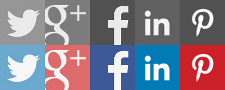
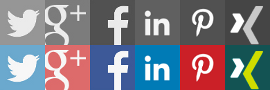
Xing integration

diff --git a/static/socialshare.css b/static/socialshare.css
@@ -2,7 +2,7 @@
 .social-sharing{width: 100%; clear: both;}
 .social-sharing span{display: inline-block;font-size: 110%;}
 .social-sharing span.top, .social-sharing span.bottom {width:100%;} .social-sharing span.right {display: inline;}  
-a.button-facebook,a.button-googleplus,a.button-twitter,a.button-linkedin,a.button-pinterest{color: #fff;text-decoration:none;font-size: 16px;font-weight:normal; margin:1% 1% 1% 0;padding:5px 1%;padding:.5rem 1%;text-align:center;display: inline-block;text-shadow: 0 1px 0 rgba(0, 0, 0, 0.25);border:0px;}
+a.button-facebook,a.button-googleplus,a.button-twitter,a.button-linkedin,a.button-pinterest,a.button-xing{color: #fff;text-decoration:none;font-size: 16px;font-weight:normal; margin:1% 1% 1% 0;padding:5px 1%;padding:.5rem 1%;text-align:center;display: inline-block;text-shadow: 0 1px 0 rgba(0, 0, 0, 0.25);border:0px;}
 a.button-facebook {background-color: #2b4170;background: -moz-linear-gradient(top, #3b5998, #2b4170);background: -ms-linear-gradient(top, #3b5998, #2b4170);background: -webkit-linear-gradient(top, #3b5998, #2b4170);text-shadow: 0 -1px -1px #1f2f52;}
 a.button-facebook:hover {background-color: #3b5998;background: -moz-linear-gradient(top, #2b4170, #3b5998);background: -ms-linear-gradient(top, #2b4170, #3b5998);background: -webkit-linear-gradient(top, #2b4170, #3b5998);color:#fff;}
 a.button-googleplus { background-color: #c33219;background: -moz-linear-gradient(top, #e64522, #c33219);background: -ms-linear-gradient(top, #e64522, #c33219);background: -webkit-linear-gradient(top, #e64522, #c33219);text-shadow: 0 -1px -1px #972412;}
@@ -13,22 +13,26 @@ a.button-linkedin {background-color: #0073b2;background: -moz-linear-gradient(to
 a.button-linkedin:hover{background-color: #009cda;background: -moz-linear-gradient(top, #0073b2, #009cda);background: -ms-linear-gradient(top, #0073b2, #009cda);background: -webkit-linear-gradient(top, #0073b2, #009cda);color:#fff;}
 a.button-pinterest {background-color: #a0171c;background: -moz-linear-gradient(top, #cb2027, #a0171c);background: -ms-linear-gradient(top, #cb2027, #a0171c);background: -webkit-linear-gradient(top, #cb2027, #a0171c);text-shadow: 0 -1px -1px #761114;}
 a.button-pinterest:hover{background-color: #cb2027; background: -moz-linear-gradient(top, #a0171c, #cb2027);background: -ms-linear-gradient(top, #a0171c, #cb2027);background: -webkit-linear-gradient(top, #a0171c, #cb2027);color:#fff;}
+a.button-xing {background-color: #006464;background: -moz-linear-gradient(top, #135353, #006464);background: -ms-linear-gradient(top, #135353, #006464);background: -webkit-linear-gradient(top, #135353, #006464);text-shadow: 0 -1px -1px #1e7677;}
+a.button-xing:hover{background-color: #135353; background: -moz-linear-gradient(top, #006464, #135353);background: -ms-linear-gradient(top, #006464, #135353);background: -webkit-linear-gradient(top, #006464, #135353);color:#fff;}
 
 .ss-social-sharing a{text-indent: -99999px;}
-a.ss-button-facebook, a.ss-button-googleplus, a.ss-button-twitter, a.ss-button-linkedin,a.ss-button-pinterest{background-image: url(socialshare.png);width: 45px;height: 45px;background-repeat: no-repeat;padding: 0px;border: 0px;margin:1% 1% 1% 0;display: inline-block;}
+a.ss-button-facebook, a.ss-button-googleplus, a.ss-button-twitter, a.ss-button-linkedin,a.ss-button-pinterest,a.ss-button-xing{background-image: url(socialshare.png);width: 45px;height: 45px;background-repeat: no-repeat;padding: 0px;border: 0px;margin:1% 1% 1% 0;display: inline-block;}
 a.ss-button-twitter{background-position:0px -45px;}a.ss-button-twitter:hover{background-position:0px 0px;transition-delay: 0s;transition-duration: 250ms;transition-property: all; transition-timing-function: ease-in-out;}
 a.ss-button-googleplus{background-position: -45px -45px;}a.ss-button-googleplus:hover{background-position: -45px 0px;transition-delay: 0s;transition-duration: 250ms;transition-property: all; transition-timing-function: ease-in-out;}
 a.ss-button-facebook{background-position: -90px -45px;}a.ss-button-facebook:hover{background-position: -90px 0px;transition-delay: 0s;transition-duration: 250ms;transition-property: all; transition-timing-function: ease-in-out;}
 a.ss-button-linkedin{background-position: -135px -45px;}a.ss-button-linkedin:hover{background-position: -135px 0px;transition-delay: 0s;transition-duration: 250ms;transition-property: all; transition-timing-function: ease-in-out;}
 a.ss-button-pinterest{background-position: -180px -45px;}a.ss-button-pinterest:hover{background-position: -180px 0px;transition-delay: 0s;transition-duration: 250ms;transition-property: all; transition-timing-function: ease-in-out;}
+a.ss-button-xing{background-position: -225px -45px;}a.ss-button-xing:hover{background-position: -225px 0px;transition-delay: 0s;transition-duration: 250ms;transition-property: all; transition-timing-function: ease-in-out;}
 
 /* Smartphones (portrait and landscape) */
 @media (max-width : 480px){
 .social-sharing a{text-indent: -99999px;}
-a.button-facebook, a.button-googleplus,a.button-twitter,a.button-linkedin,a.button-pinterest{background-image: url(socialshare.png) !important;width: 45px;height: 45px;background-repeat: no-repeat;padding: 0px;border: 0px;}
+a.button-facebook, a.button-googleplus,a.button-twitter,a.button-linkedin,a.button-pinterest,a.button-xing{background-image: url(socialshare.png) !important;width: 45px;height: 45px;background-repeat: no-repeat;padding: 0px;border: 0px;}
 a.button-twitter{background-position:0px -45px; }a.button-twitter:hover{background-position:0px 0px;transition-delay: 0s;transition-duration: 250ms;transition-property: all; transition-timing-function: ease-in-out;}
 a.button-googleplus{background-position: -45px -45px;}a.button-googleplus:hover{background-position: -45px 0px;transition-delay: 0s;transition-duration: 250ms;transition-property: all; transition-timing-function: ease-in-out;}
 a.button-facebook{background-position: -90px -45px;}a.button-facebook:hover{background-position: -90px 0px;transition-delay: 0s;transition-duration: 250ms;transition-property: all; transition-timing-function: ease-in-out;}
 a.button-linkedin{background-position: -135px -45px;}a.button-linkedin:hover{background-position: -135px 0px;transition-delay: 0s;transition-duration: 250ms;transition-property: all; transition-timing-function: ease-in-out;}
 a.button-pinterest{background-position: -180px -45px;}a.button-pinterest:hover{background-position: -180px 0px;transition-delay: 0s;transition-duration: 250ms;transition-property: all; transition-timing-function: ease-in-out;}
+a.button-xing{background-position: -225px -45px;}a.button-xing:hover{background-position: -225px 0px;transition-delay: 0s;transition-duration: 250ms;transition-property: all; transition-timing-function: ease-in-out;}
 }

diff --git a/static/admin-styles.css b/static/admin-styles.css
@@ -14,6 +14,7 @@
 .dndicon .facebook-icon{background-position: -90px -45px;}
 .dndicon .linkedin-icon{background-position: -135px -45px;}
 .dndicon .pinterest-icon{background-position: -180px -45px;}
+.dndicon .xing-icon{background-position: -225px -45px;}
 @media(max-width: 919px) {
 .ss-column{float: none;width: 100%;}
 .ss-secondary{ padding:0; margin:25px 0; border-left:0;}

diff --git a/includes/settings-page.php b/includes/settings-page.php
@@ -22,6 +22,8 @@ if( ! defined("SS_VERSION") ) {
 						<input type="checkbox" id="googleplus_share" name="wp_social_sharing[social_options][]" value="googleplus" <?php checked( in_array( 'googleplus', $opts['social_options'] ), true ); ?> /><label for="googleplus_share"><?php echo _e('Google Plus','wp-social-sharing')?></label>
 						<input type="checkbox" id="linkedin_share" name="wp_social_sharing[social_options][]" value="linkedin" <?php checked( in_array( 'linkedin', $opts['social_options'] ), true ); ?> /><label for="linkedin_share"><?php echo _e('Linkedin','wp-social-sharing')?></label>
 						<input type="checkbox" id="pinterest_share" name="wp_social_sharing[social_options][]" value="pinterest" <?php checked( in_array( 'pinterest', $opts['social_options'] ), true ); ?> /><label for="pinterest_share"><?php echo _e('Pinterest','wp-social-sharing')?></label>
+                                                <input type="checkbox" id="xing_share" name="wp_social_sharing[social_options][]" value="xing" <?php checked( in_array( 'xing', $opts['social_options'] ), true ); ?> /><label for="xing_share"><?php echo _e('Xing','wp-social-sharing')?></label>
+
 					</td>
 				</tr>
 				<tr valign="top">
@@ -29,7 +31,7 @@ if( ! defined("SS_VERSION") ) {
 					<td>
 						<div class="dndicon">
 							<?php $s_order=get_option('wss_wp_social_sharing');
-								  if(empty($s_order)) $s_order='f,t,g,l,p';
+								  if(empty($s_order)) $s_order='f,t,g,l,p,x';
 								  $io=explode(',',rtrim($s_order,','));
 							foreach ($io as $i){
 								switch($i){
@@ -48,6 +50,9 @@ if( ! defined("SS_VERSION") ) {
 									case 'p':
 										echo '<div class="s-icon pinterest-icon" id="p"></div>';
 										break;
+                                                                        case 'x':
+                                                                                echo '<div class="s-icon xing-icon" id="x"></div>';
+                                                                                break;
 								}
 							}?>
 						</div>
@@ -125,6 +130,12 @@ if( ! defined("SS_VERSION") ) {
 						<div id="set_custom_image_src"><?php if($opts['pinterest_image'] != ''): ?><img src="<?php echo $opts['pinterest_image'];?>" width="100px" /> <?php endif;?></div>
 					</td>
 				</tr>
+                                <tr valign="top">
+                                        <th><label for="xing_text"><?php _e('Xing share button text','wp-social-sharing');?></label></th>
+                                        <td>
+                                                <input type="text" name="wp_social_sharing[xing_text]" id="xing_text" class="widefat" value="<?php echo esc_attr($opts['xing_text']); ?>" />
+                                        </td>
+                                </tr>
 				<tr>
 					<th><label><?php _e('Load plugin scripts','wp-social-sharing');?></label></th>
 					<td>

diff --git a/index.php b/index.php
@@ -1,9 +1,9 @@
 <?php
 /*
 Plugin Name: WP Social Sharing
-Version: 1.8
+Version: 1.9
 Plugin URI: http://wordpress.org/plugins/wp-social-sharing/
-Description: Adds very attractive responsive social sharing buttons of Facebook, Twitter, Linkedin, Pinterest and Google+ to wordpress posts, pages or media. 
+Description: Adds very attractive responsive social sharing buttons of Facebook, Twitter, Linkedin, Pinterest, Xing and Google+ to wordpress posts, pages or media. 
 Author: Arjun Jain
 Author URI: http://www.arjunjain.info/
 Text Domain: wp-social-sharing
@@ -16,7 +16,7 @@ if ( ! defined( 'ABSPATH' ) ) {
 	exit;
 }
 
-define( "SS_VERSION", "1.4" );  // db versioin
+define( "SS_VERSION", "1.5" );  // db versioin
 define( "SS_PLUGIN_DIR", plugin_dir_path( __FILE__ ) ); 
 define( "SS_PLUGIN_URL", plugins_url( '/' , __FILE__ ) );
 
@@ -42,12 +42,13 @@ function wss_update_db_check_while_plugin_upgrade(){
 	// change for linkedin button  
     // Upgrade from db version lower than 1.3 to 1.4 
 	if($db_version == '1.0' ){
-		update_option('wss_wp_social_sharing','f,t,g,l,p');
+		update_option('wss_wp_social_sharing','f,t,g,l,p,x');
 		$default=get_option('wp_social_sharing');
 		$default['linkedin_text']='Share on Linkedin';
 		$default['pinterest_text']='Share on Pinterest';
+                $default['xing_text']='Share on Xing';
 		update_option('wp_social_sharing',$default);
-		update_option('wss_plugin_version','1.4');
+		update_option('wss_plugin_version','1.5');
 	}
 	else if($db_version  == '1.3'){ // update db from version 1.3 to 1.4
 		$current_wss_option=get_option('wss_wp_social_sharing');
@@ -56,6 +57,15 @@ function wss_update_db_check_while_plugin_upgrade(){
 		$default=get_option('wp_social_sharing');
 		$default['pinterest_text']='Share on Pinterest';
 		update_option('wp_social_sharing',$default);
-		update_option('wss_plugin_version','1.4');
+		update_option('wss_plugin_version','1.5');
 	}
+        else if($db_version  == '1.4'){ // update db from version 1.4 to 1.5
+                $current_wss_option=get_option('wss_wp_social_sharing');
+                $current_wss_option = $current_wss_option.',x';
+                update_option('wss_wp_social_sharing',$current_wss_option);
+                $default=get_option('wp_social_sharing');
+                $default['xing_text']='Share on Xing';
+                update_option('wp_social_sharing',$default);
+                update_option('wss_plugin_version','1.5');
+        }
 }

diff --git a/includes/class-public.php b/includes/class-public.php
@@ -60,7 +60,8 @@ class SS_Public {
 				'googleplus_text' => __( 'Share on Google+', 'social-sharing' ),
 				'linkedin_text' => __('Share on Linkedin', 'social-sharing' ),
 				'pinterest_text'=>__('Share on Pinterest','social-sharing'),
-				'icon_order'=>'f,t,g,l,p',
+				'xing_text'=>__('Share on Xing','social-sharing'),
+				'icon_order'=>'f,t,g,l,p,x',
 				'social_image'=> '', 
 				'show_icons'=>'0',
 				'before_button_text'=>'',
@@ -105,6 +106,7 @@ class SS_Public {
 		$ssbutton_googleplus='button-googleplus';
 		$ssbutton_linkedin='button-linkedin';
 		$ssbutton_pinterest='button-pinterest';
+		$ssbutton_xing='button-xing';
 		$sssocial_sharing='';
 		if($show_icons){
 			$sssocial_sharing='ss-social-sharing';
@@ -113,6 +115,7 @@ class SS_Public {
 			$ssbutton_googleplus='ss-button-googleplus';
 			$ssbutton_linkedin='ss-button-linkedin';	
 			$ssbutton_pinterest='ss-button-pinterest';
+			$ssbutton_xing='ss-button-xing';
 		}
 		$icon_order=explode(',',$icon_order);
 		ob_start();
@@ -148,6 +151,11 @@ class SS_Public {
 	        			if(in_array('pinterest', $social_options)){
 	        				?><a <?php echo $loadjs;?> rel="external nofollow" class="<?php echo $ssbutton_pinterest;?>" href="http://pinterest.com/pin/create/button/?url=<?php echo $url;?>&media=<?php echo $social_image;?>&description=<?php echo $title;?>" target="_blank" ><?php echo $pinterest_text; ?></a><?php
 	        			}
+				break;
+                                case 'x':
+                                        if(in_array('xing', $social_options)){
+                                                ?><a <?php echo $loadjs;?> rel="external nofollow" class="<?php echo $ssbutton_xing;?>" href="https://www.xing.com/spi/shares/new?url=<?php echo $url;?>" target="_blank" ><?php echo $xing_text; ?></a><?php
+                                        }
 	        		break;
 	        	}
 	        } ?>

diff --git a/includes/class-admin.php b/includes/class-admin.php
@@ -34,12 +34,13 @@ class SS_Admin {
 				'linkedin_text'=>"Share on Linkedin",
 				'pinterest_text'=>"Share on Pinterest",
 				'pinterest_image'=>"",
+				'xing_text'=>"Share on Xing",
 				'show_icons'=>'0',
 				'before_button_text'=>'',
 				'text_position'=>'left'
 		);
 		update_option( 'wp_social_sharing', $defaults );
-		update_option( 'wss_wp_social_sharing','f,t,g,l,p');
+		update_option( 'wss_wp_social_sharing','f,t,g,l,p,x');
 		update_option( 'wss_pluign_version ',SS_VERSION);
 	}
 	
@@ -62,6 +63,7 @@ class SS_Admin {
 		$settings['linkedin_text'] = trim( strip_tags( $settings['linkedin_text'] ) );
 		$settings['pinterest_text'] = trim( strip_tags( $settings['pinterest_text'] ) );
 		$settings['pinterest_image'] = trim( strip_tags( $settings['pinterest_image'] ) );
+		$settings['xing_text'] = trim( strip_tags( $settings['xing_text'] ) );
 		$settings['auto_add_post_types'] = ( isset( $settings['auto_add_post_types'] ) ) ? $settings['auto_add_post_types'] : array();
 		$settings['show_sharebutton'] = ( isset( $settings['show_sharebutton'] ) ) ? $settings['show_sharebutton'] : array();
 		return $settings;

diff --git a/includes/plugin.php b/includes/plugin.php
@@ -13,7 +13,7 @@ function ss_get_options()
 		$defaults = array(
 			'twitter_username' => "",
 			'auto_add_post_types' => array( 'post' ),
-			'social_options'=>array('facebook','twitter','googleplus','linkedin','pinterest'),
+			'social_options'=>array('facebook','twitter','googleplus','linkedin','pinterest','xing'),
 			'load_static'=>array('load_css','load_js'),
 			'facebook_text'=>"Share on Facebook",
 			'twitter_text'=>"Share on Twitter",
@@ -21,6 +21,7 @@ function ss_get_options()
 			'linkedin_text'=>"Share on Linkedin",
 			'pinterest_text'=>"Share on Pinterest",
 			'pinterest_image'=>"",
+			'xing_text'=>"Share on Xing",
 			'before_button_text'=>'',
 			'text_position' => 'left'
 		);
